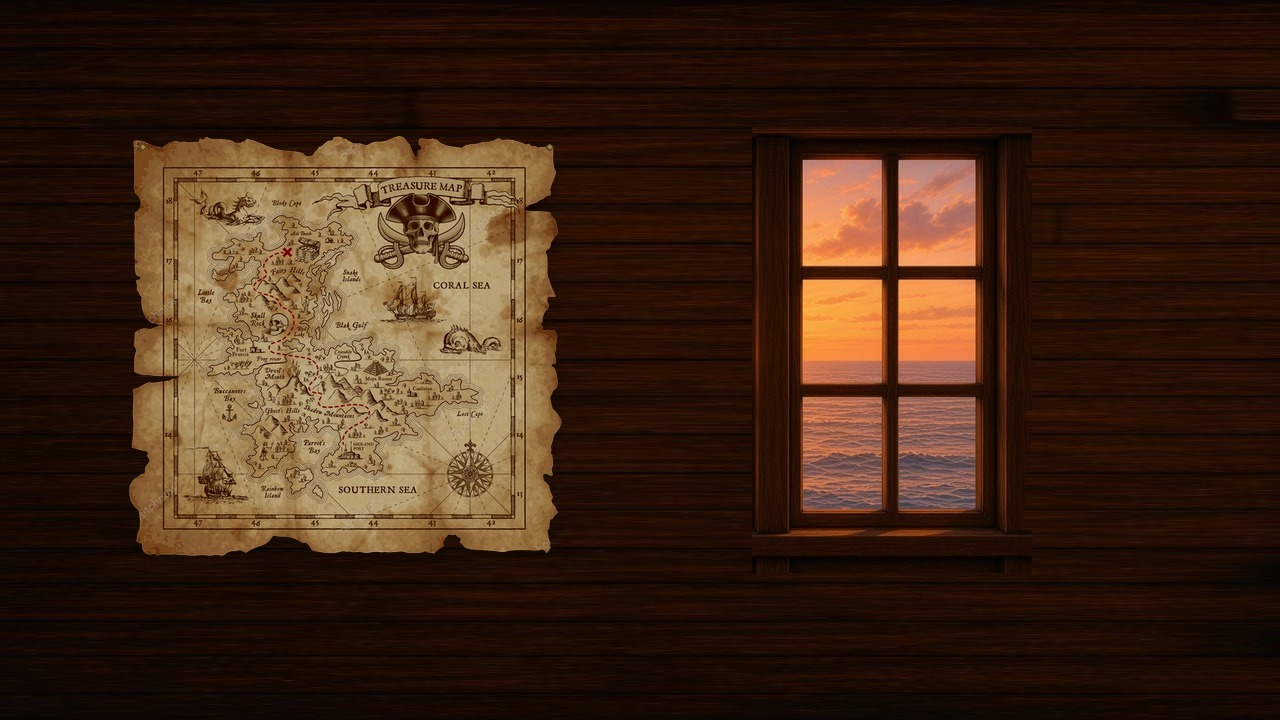
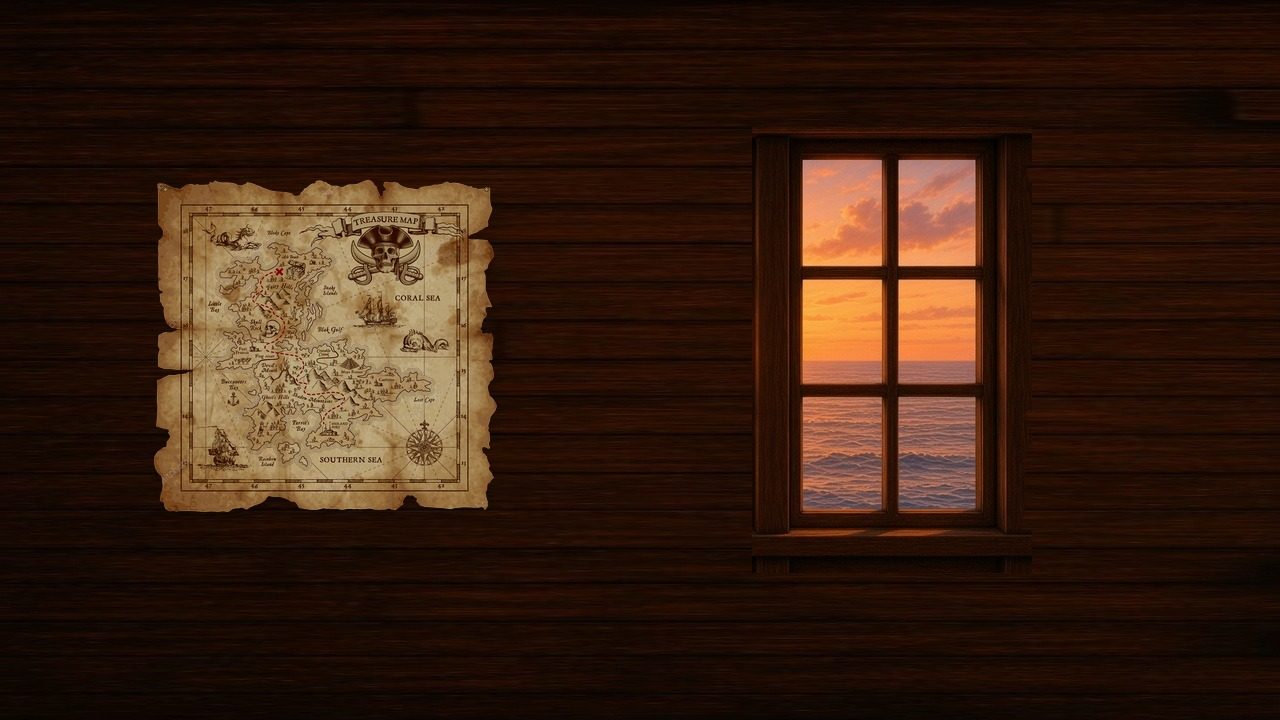
Shrink the starboard treasure map a bit
Scale the hanging map down so it sits lighter on the wall.

Changed region(s): [[0.0938, 0.1833, 0.4375, 0.7944]]

diff --git a/pirates-cabin.html b/pirates-cabin.html
@@ -54,7 +54,7 @@
           </div>
           <div class="cabin-face cabin-face-starboard">
             <img
-              src="images/cabin-starboard-wall-v6.jpg?v=1"
+              src="images/cabin-starboard-wall-v6.jpg?v=2"
               alt="Starboard wall with the right stern window and frame on the right"
               draggable="false"
             />
